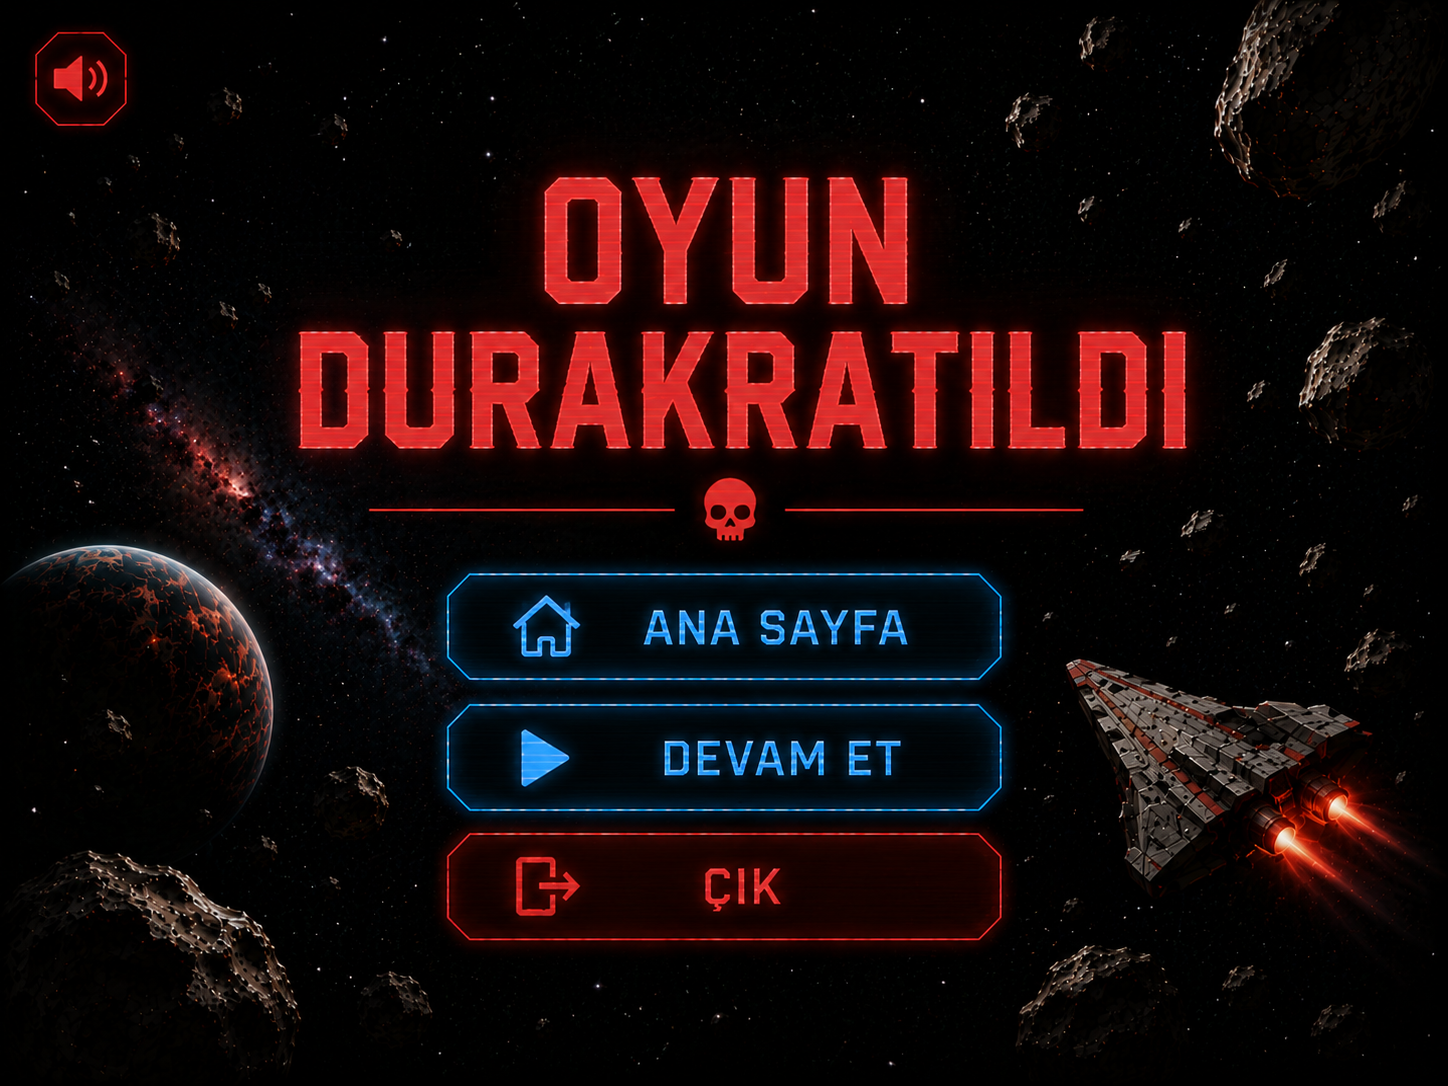
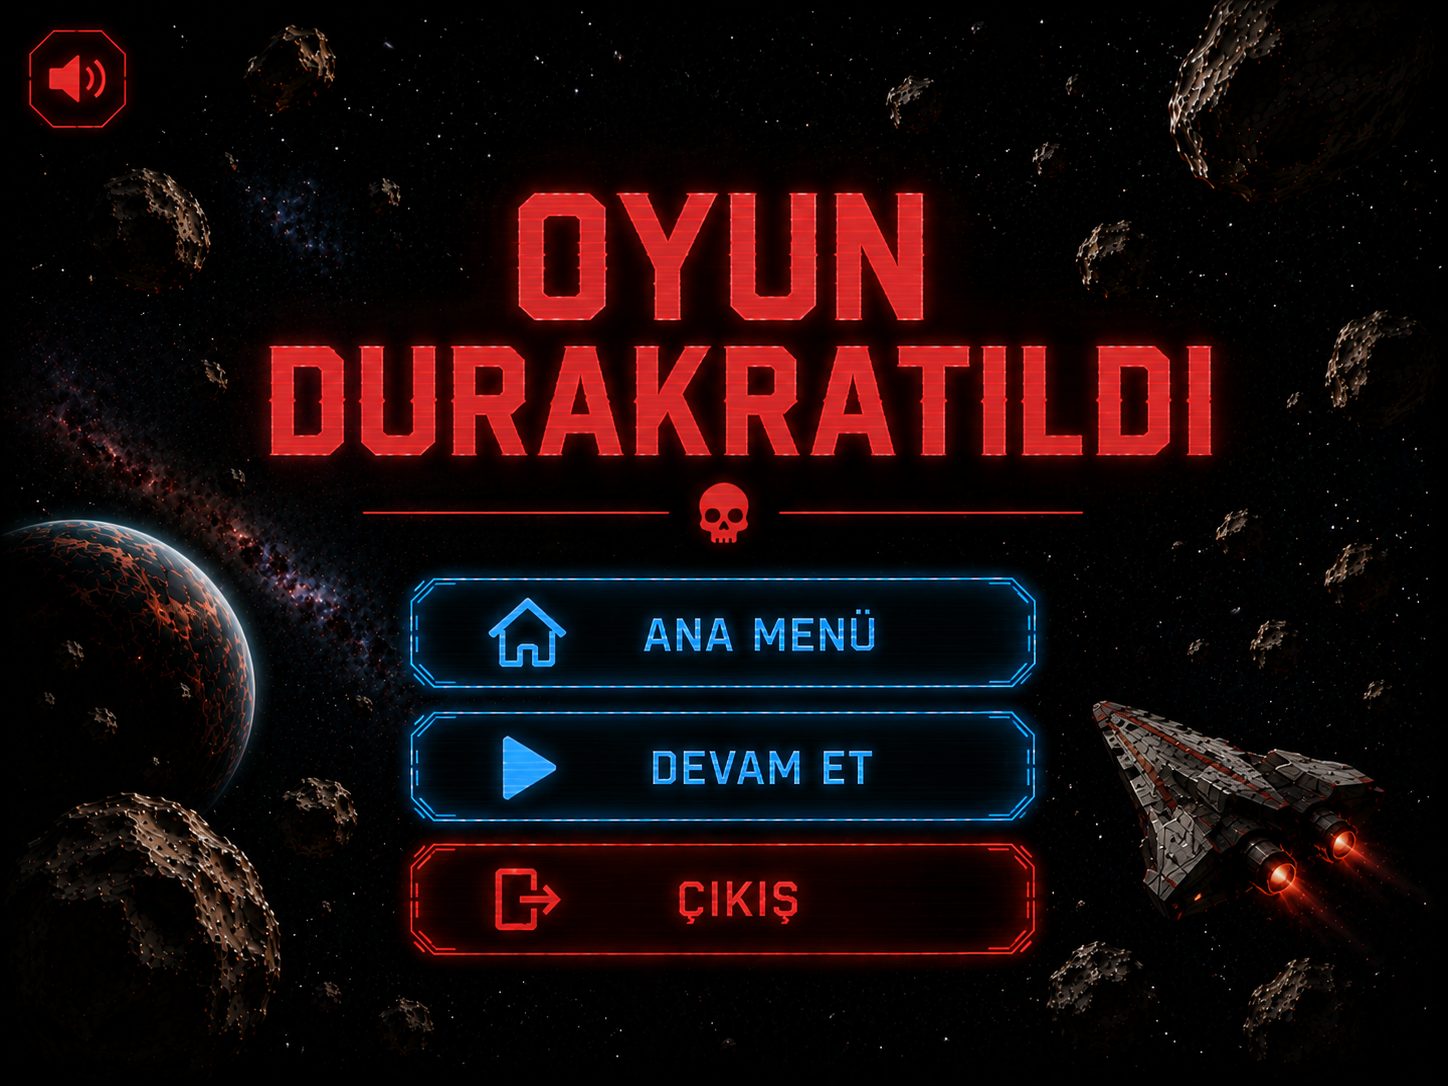
ekranlari fonksiyona alarak mouse hareketine göre butonun büyümesini yaptim

diff --git a/arayuz.c b/arayuz.c
@@ -124,31 +124,208 @@ void rekoruVeSkoruYaz() // burda ise yazdirma islemi yapiyoruz
         SDL_Color sari = { 255, 215, 0, 255 };
 
         SDL_Surface* skorYuzeyi = TTF_RenderText_Solid(font, sonSkorMetni, beyaz);
-      
+
         SDL_Texture* skorResmi = SDL_CreateTextureFromSurface(ekrancizici, skorYuzeyi);
 
-     
+
         SDL_Rect skorKutusu = { 240, 360, skorYuzeyi->w, skorYuzeyi->h };
 
-      
+
         SDL_RenderCopy(ekrancizici, skorResmi, NULL, &skorKutusu);
 
-       
+
         SDL_FreeSurface(skorYuzeyi);
         SDL_DestroyTexture(skorResmi);
 
         SDL_Surface* rekorYuzeyi = TTF_RenderText_Solid(font, yuksekSkorMetni, sari);
-        
+
         SDL_Texture* rekorResmi = SDL_CreateTextureFromSurface(ekrancizici, rekorYuzeyi);
 
-    
+
         SDL_Rect rekorKutusu = { 360, 360, rekorYuzeyi->w, rekorYuzeyi->h };
 
-       
+
         SDL_RenderCopy(ekrancizici, rekorResmi, NULL, &rekorKutusu);
 
-       
+
         SDL_FreeSurface(rekorYuzeyi);
         SDL_DestroyTexture(rekorResmi);
+    }
+}
+
+void girisEkraniniCiz() 
+{
+    if (girisEkrani != NULL) {
+        SDL_RenderCopy(ekrancizici, girisEkrani, NULL, NULL);
+    }
+
+    int fareX, fareY;
+    SDL_GetMouseState(&fareX, &fareY); //farenin konumunu aliyoruz
+
+    SDL_Rect baslaKutu = { 254, 336, 300, 60 }; 
+
+    if (fareX > baslaKutu.x && fareX < (baslaKutu.x + baslaKutu.w) && fareY > baslaKutu.y && fareY < (baslaKutu.y + baslaKutu.h)) //eger faremiz butonun icindeyse
+    {
+        SDL_Rect yeniBasla = { //yeni buton daha buyuk
+            baslaKutu.x - 10,     
+            baslaKutu.y - 8,    
+            baslaKutu.w + 10,   
+            baslaKutu.h + 10     
+        };
+
+        if (btnbasla != NULL) {
+            SDL_RenderCopy(ekrancizici, btnbasla, NULL, &yeniBasla); //ustune yapistiriyoruz
+        }
+    }
+    SDL_Rect kntrlKutu = { 254, 403, 300, 60 };
+
+    if (fareX > kntrlKutu.x && fareX < (kntrlKutu.x + kntrlKutu.w) && fareY > kntrlKutu.y && fareY < (kntrlKutu.y + kntrlKutu.h))
+    {
+        SDL_Rect yeniKntrl = {
+            kntrlKutu.x - 10,
+            kntrlKutu.y - 8,
+            kntrlKutu.w + 10,
+            kntrlKutu.h + 10
+        };
+        if (btnkntrl != NULL)
+        {
+            SDL_RenderCopy(ekrancizici, btnkntrl, NULL, &yeniKntrl);
+        }
+    }
+    SDL_Rect cikisKutu = { 254, 470, 300, 60 };
+
+    if (fareX > cikisKutu.x && fareX < (cikisKutu.x + cikisKutu.w) && fareY > cikisKutu.y && fareY < (cikisKutu.y + cikisKutu.h))
+    {
+        SDL_Rect yeniCikis = {
+            cikisKutu.x - 10,
+            cikisKutu.y - 8,
+            cikisKutu.w + 10,
+            cikisKutu.h + 10
+        };
+        if (btncikis != NULL)
+        {
+            SDL_RenderCopy(ekrancizici, btncikis, NULL, &yeniCikis);
+        }
+    }
+}
+
+void duraklatmaEkraniCiz()
+{
+    if (duraklatmaEkrani != NULL)
+    {
+        SDL_RenderCopy(ekrancizici, duraklatmaEkrani, NULL, NULL);
+    }
+
+    int fareX, fareY;
+    SDL_GetMouseState(&fareX, &fareY);
+
+    SDL_Rect anaMenuKutu = { 227, 321, 350, 60 };
+
+    if (fareX > anaMenuKutu.x && fareX < (anaMenuKutu.x + anaMenuKutu.w) && fareY > anaMenuKutu.y && fareY < (anaMenuKutu.y + anaMenuKutu.h)) 
+    {
+        SDL_Rect yeniAnamenu = {
+            anaMenuKutu.x - 10,
+            anaMenuKutu.y - 8,
+            anaMenuKutu.w + 10,
+            anaMenuKutu.h + 10
+        };
+        if (btnanamenu != NULL)
+        {
+            SDL_RenderCopy(ekrancizici, btnanamenu, NULL, &yeniAnamenu);
+        }
+    }
+
+    SDL_Rect devametKutu = { 227, 393, 350, 60 };
+
+    if (fareX > devametKutu.x && fareX < (devametKutu.x + devametKutu.w) && fareY > devametKutu.y && fareY < (devametKutu.y + devametKutu.h))
+    {
+        SDL_Rect yenidevamet = {
+            devametKutu.x - 10,
+            devametKutu.y - 8,
+            devametKutu.w + 10,
+            devametKutu.h + 10
+        };
+        if (btndevamet != NULL)
+        {
+            SDL_RenderCopy(ekrancizici, btndevamet, NULL, &yenidevamet);
+        }
+    }
+    SDL_Rect drkltmacikisKutu = { 227, 467, 350, 60 };
+
+    if (fareX > drkltmacikisKutu.x && fareX < (drkltmacikisKutu.x + drkltmacikisKutu.w) && fareY > drkltmacikisKutu.y && fareY < (drkltmacikisKutu.y + drkltmacikisKutu.h))
+    {
+        SDL_Rect yenidrkltmacikis = {
+            drkltmacikisKutu.x - 10,
+            drkltmacikisKutu.y - 8,
+            drkltmacikisKutu.w + 10,
+            drkltmacikisKutu.h + 10
+        };
+
+        if (btndrkltmacikis != NULL)
+        {
+            SDL_RenderCopy(ekrancizici, btndrkltmacikis, NULL, &yenidrkltmacikis);
+        }
+    }
+}
+
+void oyunsonuEkraniCiz()
+{
+    if (oyunSonuEkrani != NULL)
+    {
+        SDL_RenderCopy(ekrancizici, oyunSonuEkrani, NULL, NULL);
+    }
+
+    int fareX, fareY;
+    SDL_GetMouseState(&fareX, &fareY);
+
+    SDL_Rect oynsonuanamenuKutu = { 238, 400, 350, 60 };
+
+    if (fareX > oynsonuanamenuKutu.x && fareX < (oynsonuanamenuKutu.x + oynsonuanamenuKutu.w) && fareY > oynsonuanamenuKutu.y && fareY < (oynsonuanamenuKutu.y + oynsonuanamenuKutu.h))
+    {
+        SDL_Rect yenioynsonuanamenu = {
+            oynsonuanamenuKutu.x - 15,
+            oynsonuanamenuKutu.y - 12,
+            oynsonuanamenuKutu.w + 7,
+            oynsonuanamenuKutu.h + 7
+        };
+
+        if (btnoynsonuanamenu != NULL)
+        {
+            SDL_RenderCopy(ekrancizici, btnoynsonuanamenu, NULL, &yenioynsonuanamenu);
+        }
+    }
+
+    SDL_Rect tekraroynaKutu = { 238, 458, 350, 60 };
+
+    if (fareX > tekraroynaKutu.x && fareX < (tekraroynaKutu.x + tekraroynaKutu.w) && fareY > tekraroynaKutu.y && fareY < (tekraroynaKutu.y + tekraroynaKutu.h))
+    {
+        SDL_Rect yenitekraroyna = {
+            tekraroynaKutu.x - 15,
+            tekraroynaKutu.y - 12,
+            tekraroynaKutu.w + 7,
+            tekraroynaKutu.h + 7
+        };
+
+        if (btntekraroyna != NULL)
+        {
+            SDL_RenderCopy(ekrancizici, btntekraroyna, NULL, &yenitekraroyna);
+        }
+    }
+
+    SDL_Rect cikKutu = { 238, 516, 350, 60 };
+
+    if (fareX > cikKutu.x && fareX < (cikKutu.x + cikKutu.w) && fareY > cikKutu.y && fareY < (cikKutu.y + cikKutu.h))
+    {
+        SDL_Rect yenicik = {
+            cikKutu.x - 15,
+            cikKutu.y - 12,
+            cikKutu.w + 7,
+            cikKutu.h + 7
+        };
+
+        if (btncik != NULL)
+        {
+            SDL_RenderCopy(ekrancizici, btncik, NULL, &yenicik);
+        }
     }
 }

diff --git a/arayuz.h b/arayuz.h
@@ -6,17 +6,29 @@
 extern SDL_Renderer* ekrancizici;
 extern TTF_Font* font;
 extern SDL_Texture* oyunSonuEkrani;
+extern SDL_Texture* girisEkrani;
+extern SDL_Texture* duraklatmaEkrani;
 extern int skor;
 extern int enYuksekSkor;
 extern const int pencereGenisligi;
 extern const int pencereUzunlugu;
-
-
+extern SDL_Texture* btnbasla;
+extern SDL_Texture* btnkntrl;
+extern SDL_Texture* btncikis;
+extern SDL_Texture* btnanamenu;
+extern SDL_Texture* btndevamet;
+extern SDL_Texture* btndrkltmacikis;
+extern SDL_Texture* btnoynsonuanamenu;
+extern SDL_Texture* btntekraroyna;
+extern SDL_Texture* btncik;
 void canBari(Gemi* gemi);
 void canSayisi(Gemi* gemi);
 void skorYaz();
 void rekoruOku();
 void rekoruKaydet();
 void rekoruVeSkoruYaz();
+void girisEkraniniCiz();
+void duraklatmaEkraniCiz();
+void oyunsonuEkraniCiz();
 
 #endif

diff --git a/carpisma.h b/carpisma.h
@@ -4,7 +4,16 @@
 #include "gemiVeMermi.h"
 #include "meteor.h"
 
-extern int oyunDurumu;
+typedef enum {
+	GIRIS_EKRANI = 0,
+	OYUN_EKRANI = 1,
+	DURAKLATMA_EKRANI = 2,
+	OYUNSONU_EKRANI = 3
+
+
+}EkranDurumlari;
+
+extern EkranDurumlari oyunDurumu;
 
 void meteorVurma(Mermi mermiler[], Meteor meteorlar[]);
 void hasarAlma(Gemi* gemi, Meteor meteorlar[]);